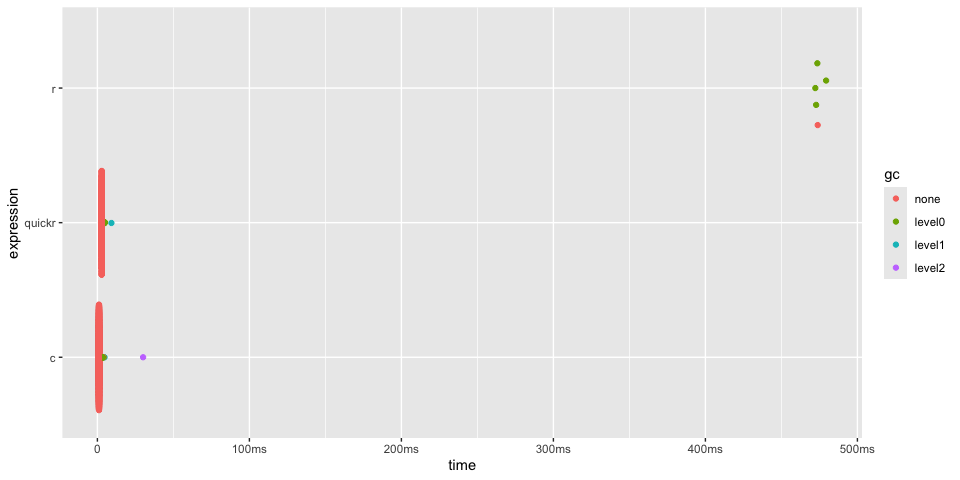
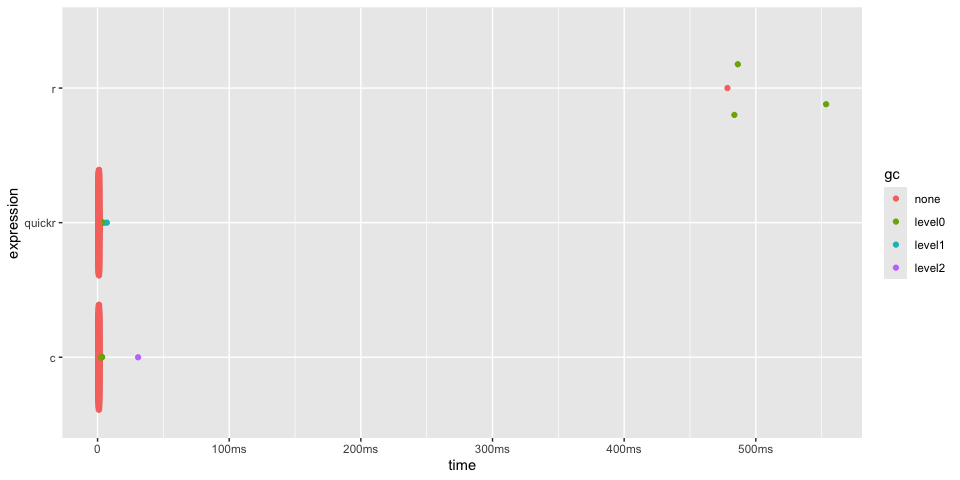
Fix flang runtime detection and update README benchmarks

diff --git a/README.md b/README.md
@@ -137,9 +137,9 @@ timings
 #> # A tibble: 3 × 6
 #>   expression      min   median `itr/sec` mem_alloc `gc/sec`
 #>   <bch:expr> <bch:tm> <bch:tm>     <dbl> <bch:byt>    <dbl>
-#> 1 r          473.88ms 473.88ms      2.11     782KB     8.44
-#> 2 quickr       2.65ms   2.83ms    353.       782KB     6.71
-#> 3 c          918.52µs   1.06ms    934.       782KB    18.8
+#> 1 r             478ms 478.44ms      2.09     782KB     6.27
+#> 2 quickr        933µs   1.06ms    946.       782KB    18.5 
+#> 3 c             947µs   1.06ms    939.       782KB    18.1
 plot(timings) + bench::scale_x_bench_time(base = NULL)
 ```
 
@@ -282,8 +282,8 @@ timings
 #> # A tibble: 2 × 6
 #>   expression         min   median `itr/sec` mem_alloc `gc/sec`
 #>   <bch:expr>    <bch:tm> <bch:tm>     <dbl> <bch:byt>    <dbl>
-#> 1 slow_viterbi   62.57µs     72µs    13163.    1.59KB     36.5
-#> 2 quick_viterbi   1.48µs   1.64µs   584585.        0B      0
+#> 1 slow_viterbi    61.5µs  71.75µs    13166.    1.59KB     36.1
+#> 2 quick_viterbi   1.72µs   1.89µs   509601.        0B      0
 plot(timings)
 ```
 
@@ -367,8 +367,8 @@ summary(timings, relative = TRUE)
 #> # A tibble: 2 × 6
 #>   expression           min median `itr/sec` mem_alloc `gc/sec`
 #>   <bch:expr>         <dbl>  <dbl>     <dbl>     <dbl>    <dbl>
-#> 1 diffuse_heat        120.   113.        1       514.      Inf
-#> 2 quick_diffuse_heat    1      1       102.        1       NaN
+#> 1 diffuse_heat        96.2   91.4       1        514.      Inf
+#> 2 quick_diffuse_heat   1      1        91.1        1       NaN
 plot(timings)
 ```
 
@@ -414,9 +414,9 @@ timings
 #> # A tibble: 3 × 6
 #>   expression      min   median `itr/sec` mem_alloc `gc/sec`
 #>   <bch:expr> <bch:tm> <bch:tm>     <dbl> <bch:byt>    <dbl>
-#> 1 r           72.55ms  72.84ms      9.86  124.24MB    19.7 
-#> 2 rcpp         5.95ms   6.24ms    159.      4.44MB     1.99
-#> 3 quickr       3.15ms   3.25ms    307.    781.35KB     1.99
+#> 1 r           66.49ms  74.39ms      13.6  124.24MB    25.3 
+#> 2 rcpp         5.89ms   6.26ms     157.     4.44MB     1.99
+#> 3 quickr       2.16ms   2.26ms     434.   781.35KB     5.99
 
 timings$expression <- factor(names(timings$expression), rev(names(timings$expression)))
 plot(timings) + bench::scale_x_bench_time(base = NULL)
